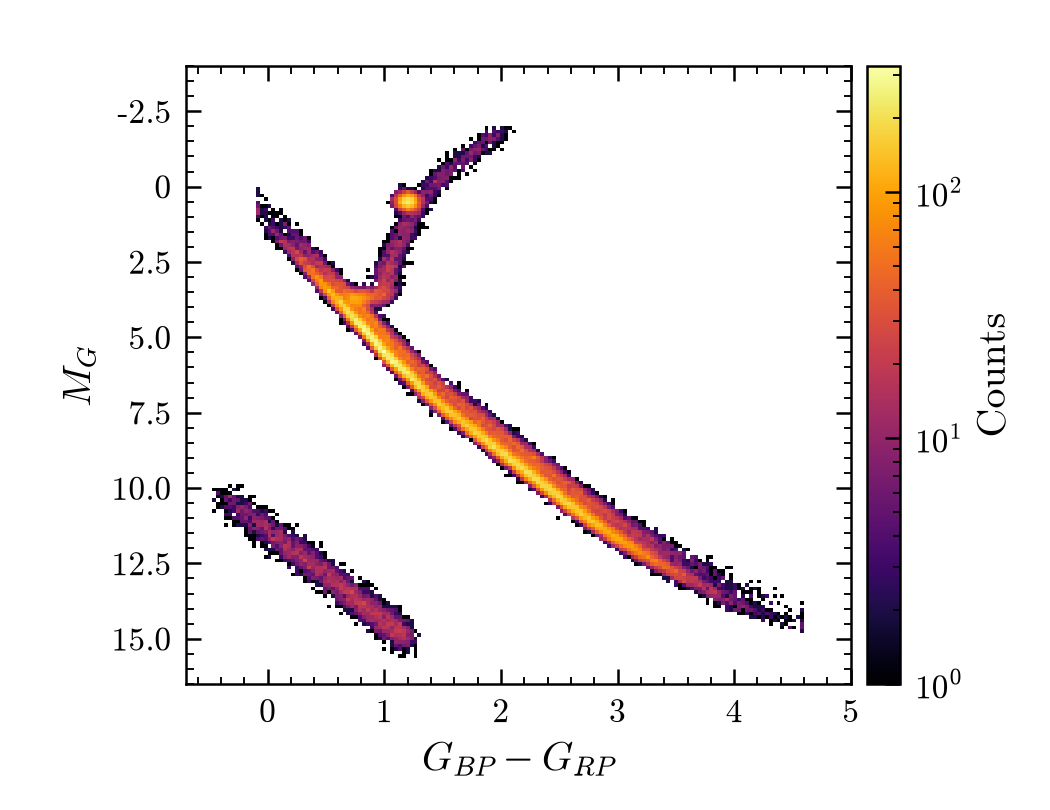
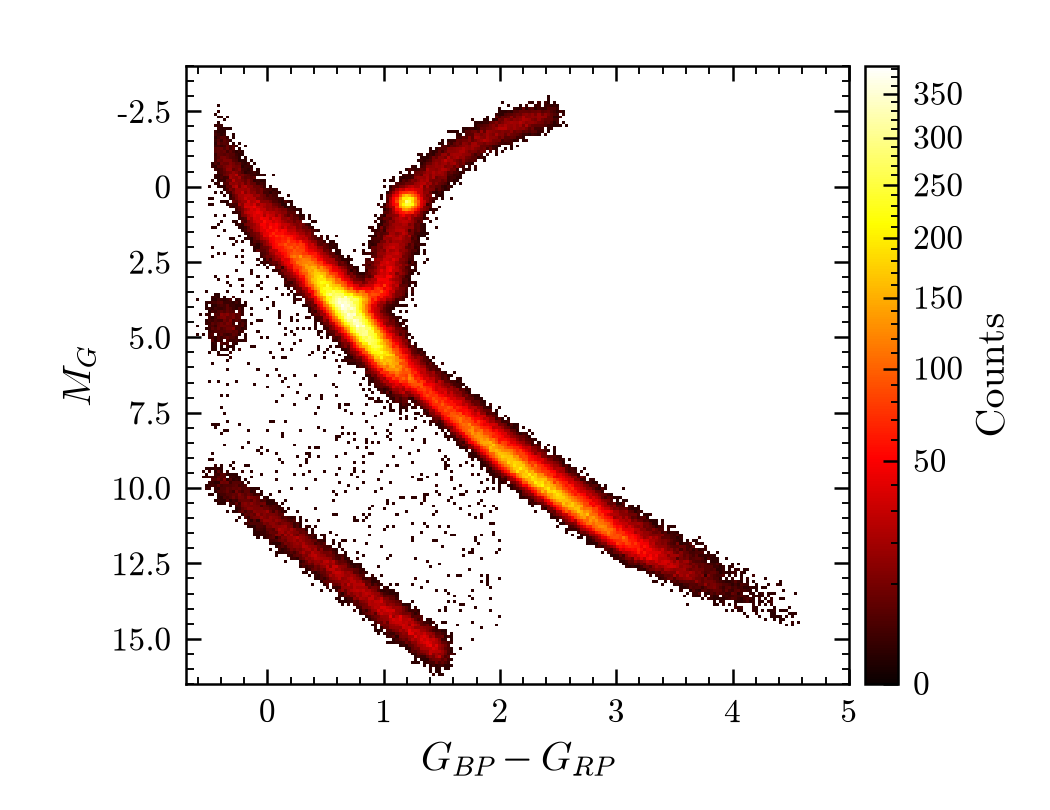
F22: Gaia HR diagram on a square-root red colour scale, Gaia-like populations
The Gaia DR2 HRDs (Babusiaux et al. 2018, Figs. 1 and 5) draw "the square
root of the density of stars" in a red colour scale; ours was log-scaled in
inferno.

- colorscale.py, a project plugin: --zpower GAMMA (a power-law colour scale
  for map panels, colorbar included) and --zcmap NAME (also for 2D
  histograms, which --cmap does not reach). The core gap is T22.3.
- F22: --zpower 0.5 --zcmap hot, 200 bins; 250,000 stars on loci read off
  Fig. 5: a broad upper main sequence peaking at the turn-off, subgiant and
  giant branches ending near (2.4, -2.4), the red clump, hot subdwarfs,
  white dwarfs on M_G = 11 + 3 (BP - RP), and sparse stars between the white
  dwarfs and the main sequence.
- examples/Makefile: the gallery copy stops on a missing file (the renamed
  F22 output had been skipped silently).

diff --git a/examples/famous/classics.py b/examples/famous/classics.py
@@ -133,47 +133,68 @@ def leavitt():
     return {"Leavitt": pd.DataFrame(rows)}
 
 
-MAIN_SEQUENCE = np.array([(-0.1, 0.8), (0.0, 1.3), (0.3, 2.5), (0.5, 3.4), (0.82, 4.67), (1.0, 5.5), (1.5, 7.3),
-                          (2.0, 8.8), (2.5, 10.3), (3.0, 11.7), (3.5, 12.8), (4.0, 13.8), (4.6, 14.6)])
-GIANT_BRANCH = np.array([(0.75, 3.7), (1.0, 3.6), (1.05, 2.5), (1.2, 1.2), (1.5, -0.4), (2.0, -1.8)])
+# Loci read off the Gaia DR2 low-extinction HRD (Babusiaux et al. 2018), (BP-RP, M_G).
+MAIN_SEQUENCE = np.array([(-0.4, -1.0), (-0.2, 0.5), (0.0, 1.5), (0.3, 2.6), (0.5, 3.5), (0.7, 4.3), (0.82, 4.8),
+                          (1.0, 5.6), (1.5, 7.3), (2.0, 8.9), (2.5, 10.3), (3.0, 11.6), (3.5, 12.6), (4.0, 13.5),
+                          (4.6, 14.3)])
+GIANT_BRANCH = np.array([(0.7, 3.8), (1.0, 3.5), (1.05, 2.5), (1.15, 1.2), (1.3, 0.0), (1.6, -1.0), (2.0, -1.9),
+                         (2.4, -2.4)])
 
 
-def hertzsprung_russell(n_stars=80_000):
+def hertzsprung_russell(n_stars=250_000):
     """F22: Hertzsprung-Russell diagram, M_G vs BP - RP.
 
     Sources: H. N. Russell, Nature 93, 252 (1914); Gaia Collaboration,
     Babusiaux et al., A&A 616, A10 (2018), arXiv:1804.09378.
 
-    From the papers: the axes (absolute G magnitude, inverted, vs BP - RP)
-    and the populations: main sequence, giant branch, red clump and white
-    dwarf sequence. The real diagram is a Gaia archive query (research.md).
-    Synthetic: every star. A main-sequence locus through (BP-RP, M_G)
-    anchors including the Sun (0.82, 4.67), 0.15 mag width and 25%
-    unresolved binaries (up to 0.75 mag brighter); a giant branch from the
-    subgiants to M_G = -1.8; a red clump at (1.2, 0.5); white dwarfs from
-    (-0.4, 10.2) to (1.2, 15). Fractions 86/5/4/5% of 80,000 stars.
+    From the papers: the axes (absolute G magnitude, inverted, vs BP - RP),
+    the populations (main sequence, subgiant and giant branch, red clump,
+    hot subdwarfs, white dwarf sequence) and the colour scale, the square
+    root of the density of stars (captions of Figs. 1 and 5). Read off
+    Fig. 5 (low extinction): the loci of the main sequence (with the Sun at
+    (0.82, 4.67)), of the giant branch and of the white dwarfs
+    (M_G = 11 + 3 (BP - RP)), and where the density peaks (the turn-off near
+    (0.7, 4) and the M dwarfs). The real diagram is a Gaia archive query
+    (research.md).
+    Synthetic: every star. The main sequence is 0.4 mag wide above the
+    turn-off and 0.25 mag below, with 30% unresolved binaries (up to 0.75 mag
+    brighter); colours drawn around the turn-off, the A stars and the M
+    dwarfs; fractions 82% main sequence, 9% giant branch, 3% red clump, 5%
+    white dwarfs, 0.3% hot subdwarfs and 0.35% stars scattered between the
+    white dwarfs and the main sequence (BP - RP < 2), of 250,000 stars.
 
     One row with per-star arrays ``BPRP``, ``MG`` and ``Population`` (an
     index into ``PopulationNames``).
     """
     rng = rng_for("F22")
-    counts = rng.multinomial(n_stars, [0.86, 0.05, 0.04, 0.05])
+    counts = rng.multinomial(n_stars, [0.8235, 0.09, 0.03, 0.05, 0.003, 0.0035])
 
-    n = counts[0]
-    colour = np.where(rng.random(n) < 0.35, rng.normal(0.9, 0.3, n), rng.normal(2.2, 0.7, n)).clip(-0.1, 4.6)
-    magnitude = np.interp(colour, *MAIN_SEQUENCE.T) + rng.normal(0, 0.15, n)
-    magnitude -= np.where(rng.random(n) < 0.25, 0.75 * np.sqrt(rng.random(n)), 0)
+    choice = rng.choice(3, 2 * counts[0], p=[0.45, 0.10, 0.45])
+    size = choice.size
+    colour = np.select([choice == 0, choice == 1], [rng.normal(0.75, 0.25, size), rng.normal(0.2, 0.3, size)],
+                       rng.normal(2.3, 0.6, size))
+    colour = colour[(colour > -0.45) & (colour < 4.6)][:counts[0]]
+    n = colour.size
+    # Broader above the turn-off (ages and metallicities), narrower for the M dwarfs.
+    magnitude = np.interp(colour, *MAIN_SEQUENCE.T) + rng.normal(0, 1, n) * np.where(colour < 1.2, 0.4, 0.25)
+    magnitude -= np.where(rng.random(n) < 0.3, 0.75 * np.sqrt(rng.random(n)), 0)
     populations = {"Main sequence": (colour, magnitude)}
 
     t = rng.random(counts[1]) ** 2
     position = t * (len(GIANT_BRANCH) - 1)
     populations["Giant branch"] = (
-        np.interp(position, np.arange(len(GIANT_BRANCH)), GIANT_BRANCH[:, 0]) + rng.normal(0, 0.05, counts[1]),
-        np.interp(position, np.arange(len(GIANT_BRANCH)), GIANT_BRANCH[:, 1]) + rng.normal(0, 0.15, counts[1]))
-    populations["Red clump"] = (rng.normal(1.2, 0.05, counts[2]), rng.normal(0.5, 0.15, counts[2]))
-    t = rng.random(counts[3]) ** 0.7
-    populations["White dwarfs"] = (-0.4 + 1.6 * t + rng.normal(0, 0.05, counts[3]),
-                                   10.2 + 4.8 * t + rng.normal(0, 0.25, counts[3]))
+        np.interp(position, np.arange(len(GIANT_BRANCH)), GIANT_BRANCH[:, 0]) + rng.normal(0, 0.08, counts[1]),
+        np.interp(position, np.arange(len(GIANT_BRANCH)), GIANT_BRANCH[:, 1]) + rng.normal(0, 0.2, counts[1]))
+    populations["Red clump"] = (rng.normal(1.2, 0.06, counts[2]), rng.normal(0.5, 0.2, counts[2]))
+    colour = -0.5 + 2.0 * rng.random(counts[3]) ** 0.6
+    populations["White dwarfs"] = (colour + rng.normal(0, 0.05, counts[3]),
+                                   11 + 3 * colour + rng.normal(0, 0.25, counts[3]))
+    populations["Hot subdwarfs"] = (rng.normal(-0.35, 0.08, counts[4]), rng.normal(4.5, 0.4, counts[4]))
+    # Between the white dwarfs and the main sequence (binaries, subdwarfs, artefacts).
+    colour = rng.uniform(-0.5, 2.0, counts[5])
+    share = rng.random(counts[5]) ** 2
+    faint = np.minimum(11 + 3 * colour, 15.5)
+    populations["Scattered"] = (colour, share * faint + (1 - share) * np.interp(colour, *MAIN_SEQUENCE.T))
     colour = np.concatenate([c for c, _ in populations.values()]).astype(np.float32)
     magnitude = np.concatenate([m for _, m in populations.values()]).astype(np.float32)
     population = np.repeat(np.arange(len(populations), dtype=np.int8), [len(c) for c, _ in populations.values()])

diff --git a/examples/famous/colorscale.py b/examples/famous/colorscale.py
@@ -1,0 +1,43 @@
+"""Colour scales of map panels for the famous-plot reproductions (a project plugin).
+
+Adds two options to every kind, applied by a figure hook just before the figure
+is saved, to the 2D histograms and images of every panel (colorbars follow):
+
+- ``--zpower GAMMA``: a power-law colour scale, value**GAMMA; 0.5 is the
+  square root of the density of the Gaia DR2 HR diagrams (F22);
+- ``--zcmap NAME``: the colour map, also for 2D histograms (``--cmap`` reaches
+  only ``-z`` images).
+
+plotipus has no built-in equivalent yet: both belong to T22.3.
+"""
+
+from matplotlib.collections import QuadMesh
+from matplotlib.colors import PowerNorm
+from matplotlib.image import AxesImage
+
+
+def setup(registry):
+    registry.add_argument("--zpower", type=float, default=None, metavar="GAMMA",
+                          help="Power-law colour scale of map panels, e.g. 0.5 for sqrt (famous-plot plugin).")
+    registry.add_argument("--zcmap", type=str, default=None, metavar="NAME",
+                          help="Colour map of map panels, 2D histograms included (famous-plot plugin).")
+    registry.add_figure_hook(apply_colour_scale)
+
+
+def apply_colour_scale(fig, args):
+    gamma, cmap = getattr(args, "zpower", None), getattr(args, "zcmap", None)
+    if gamma is None and cmap is None:
+        return
+    for ax in fig.axes:
+        if ax.get_label() == "<colorbar>":
+            continue
+        for mappable in [*ax.collections, *ax.images]:
+            if not isinstance(mappable, (QuadMesh, AxesImage)):
+                continue
+            if gamma is not None:
+                low, high = mappable.get_clim()
+                mappable.set_norm(PowerNorm(gamma, vmin=max(low, 0), vmax=high))
+            if cmap is not None:
+                mappable.set_cmap(cmap)
+            if mappable.colorbar is not None:
+                mappable.colorbar.update_normal(mappable)

diff --git a/tests/test_famous_data.py b/tests/test_famous_data.py
@@ -130,7 +130,7 @@ def test_physics_anchors(frames):
 
 @pytest.mark.parametrize("command", COMMANDS, ids=[f"{i:02d}" for i in range(len(COMMANDS))])
 def test_command_renders(command, frames, make_project):
-    config = (f'python_path = ["{FAMOUS.as_posix()}"]\nplugins = ["models", "annotations"]\n'
+    config = (f'python_path = ["{FAMOUS.as_posix()}"]\nplugins = ["models", "annotations", "colorscale"]\n'
               f'style = ["{(FAMOUS / "style.json").as_posix()}"]\n')
     out = make_project(frames, config=config)
     kind, *argv = build_command(command)
@@ -149,7 +149,8 @@ def test_paper_style_keeps_one_figure_size(frames, make_project):
     from PIL import Image
 
     styles = ", ".join(f'"{(path).as_posix()}"' for path in (FAMOUS / "style.json", FAMOUS / "paper" / "paper.json"))
-    config = (f'python_path = ["{FAMOUS.as_posix()}"]\nplugins = ["models", "annotations"]\nstyle = [{styles}]\n'
+    config = (f'python_path = ["{FAMOUS.as_posix()}"]\nplugins = ["models", "annotations", "colorscale"]\n'
+              f'style = [{styles}]\n'
               "[settings]\ntext_scale = 0.75\n")
     out = make_project(frames, config=config)
     command = next(c for c in COMMANDS if c.startswith("line --datafile Anscombe") and "--single_panel_size" in c)

diff --git a/examples/famous/README.md b/examples/famous/README.md
@@ -8,7 +8,7 @@ today.
 
 ```bash
 cd examples/famous
-python make_data.py            # 22 pickles in input/data (about 1 s, 1.4 MB)
+python make_data.py            # 22 pickles in input/data (about 1 s, 2.8 MB)
 python make_data.py F08 F25    # only some figures
 plotipus run famous            # figures in output/plots
 ```
@@ -22,7 +22,7 @@ and `anscombe.py`. A generator's docstring:
 - says what is synthetic;
 - keeps the "(unverified)" marks of research.md.
 
-Two project plugins and a style file, all listed in `plotipus.toml`, show how
+Three project plugins and a style file, all listed in `plotipus.toml`, show how
 a project adapts plotipus without changing it:
 
 - `models.py`: physics formulas and fit models, registered so that stored
@@ -34,6 +34,9 @@ a project adapts plotipus without changing it:
   letters and region labels. The project setting `text_scale` scales every
   text, and `--single_panel_size` gives a grid of panels the size of a
   single-panel figure;
+- `colorscale.py`: `--zpower GAMMA` (a power-law colour scale, 0.5 for the
+  square root of the Gaia diagrams) and `--zcmap NAME` (the colour map, 2D
+  histograms included) for map panels;
 - `style.json`: no automatic titles, a black-first colour cycle (data drawn
   black, as in the originals), smaller legends, and one colour and label
   mapping per figure.
@@ -98,7 +101,7 @@ Patterns the commands use:
 | F19 Geiger–Marsden | Phil. Mag. 25, 604 (1913) | synthetic | ✅ | (no original figure) |
 | F20 Moseley's law | Phil. Mag. 26, 1024 (1913) | synthetic | ✅ | (no original figure) |
 | F21 Leavitt | Harvard Circ. 173 (1912) | synthetic | ✅ | (table not transcribed) |
-| F22 HR diagram | Gaia DR2 HRD (A&A 616, A10), Fig. 1 | synthetic | ✅ | `--cmap` for 2D histograms (T22.3); temperature and luminosity axes (TODO.md) |
+| F22 HR diagram | Gaia DR2 HRD (A&A 616, A10), Fig. 5 | synthetic | ✅ | square-root colour scale and `--cmap` for 2D histograms (`colorscale.py` plugin, T22.3); temperature and luminosity axes (TODO.md) |
 | F25 Anscombe's quartet | Am. Stat. 27, 17 (1973) | **real** | ✅ | shared axes (T22.6); statistics table (T22.11) |
 
 ## Missing features, by task
@@ -112,7 +115,7 @@ Patterns the commands use:
 | T19 | Garwood bars from the counts | F03 |
 | T20 | band colours independent of the line, saturated fills, band legend swatches; labelled σ lines | F04, F05, F15 |
 | T21 | `column:` lower panels following `--data_hue`/`--plot_type_column` (data as points); per-series markers; `--error_scale`; x error bars from bin widths for data points | F01, F04, F06, F08, F09, F16, F17 |
-| T22.3 | `--cmap` for 2D histograms; log y axis for `-z` images | F22, F15 |
+| T22.3 | a power (square-root) colour scale and `--cmap` for 2D histograms; log y axis for `-z` images | F22, F15 |
 | T22.5 | an ordered colour map for many hues | F11 |
 | T22.6 | panel grids with shared axes (rows × columns) | F01, F15, F25 |
 | T22.7 | insets | F03, F13 |

diff --git a/README.md b/README.md
@@ -102,7 +102,7 @@ style: serif text, a 3.5 in column width and one figure size for all.
   <br><sub><a href="https://arxiv.org/abs/1207.7214">Brazil band, ATLAS 2012</a> · <a href="https://arxiv.org/abs/hep-ex/0509008">Z lineshape, LEP 2006</a> · <a href="https://arxiv.org/abs/0801.4589">neutrino oscillation, KamLAND 2008</a></sub><br><br>
   <a href="https://arxiv.org/abs/astro-ph/9805201"><img src="docs/images/famous/omega-contours.png" width="32%" alt="Confidence regions in the matter and dark-energy densities with deceleration and geometry lines"></a>
   <a href="https://doi.org/10.1073/pnas.15.3.168"><img src="docs/images/famous/hubble-1929.png" width="32%" alt="Velocity against distance of 24 nebulae with Hubble's two fitted lines"></a>
-  <a href="https://arxiv.org/abs/1804.09378"><img src="docs/images/famous/hr-diagram.png" width="32%" alt="Hertzsprung-Russell diagram as a 2D histogram with a log colour scale"></a>
+  <a href="https://arxiv.org/abs/1804.09378"><img src="docs/images/famous/hr-diagram.png" width="32%" alt="Hertzsprung-Russell diagram as a 2D histogram on a square-root colour scale"></a>
   <br><sub><a href="https://arxiv.org/abs/astro-ph/9805201">Ω<sub>M</sub>–Ω<sub>Λ</sub>, Riess et al. 1998</a> · <a href="https://doi.org/10.1073/pnas.15.3.168">Hubble 1929 (real data)</a> · <a href="https://arxiv.org/abs/1804.09378">HR diagram, Gaia DR2 2018</a></sub><br><br>
   <a href="https://gml.noaa.gov/ccgg/trends/"><img src="docs/images/famous/keeling.png" width="32%" alt="Monthly atmospheric CO2 at Mauna Loa since 1958 with the deseasonalised trend"></a>
   <a href="https://doi.org/10.1029/1999GL900070"><img src="docs/images/famous/hockey-stick.png" width="32%" alt="Northern Hemisphere temperature reconstruction since AD 1000 with its uncertainty band and the instrumental record"></a>
